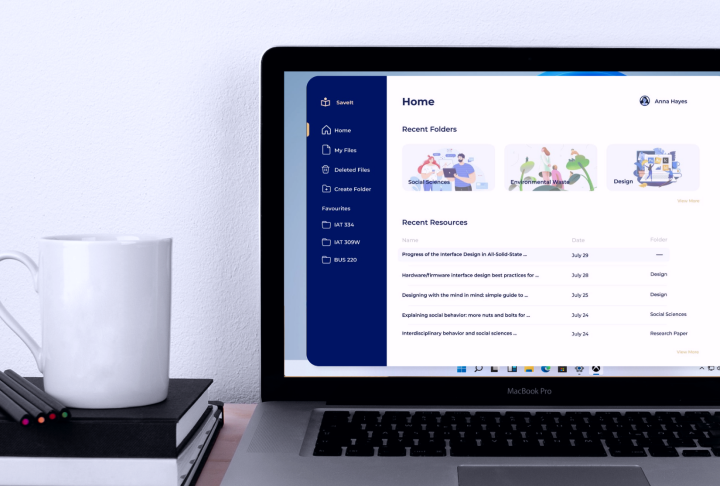
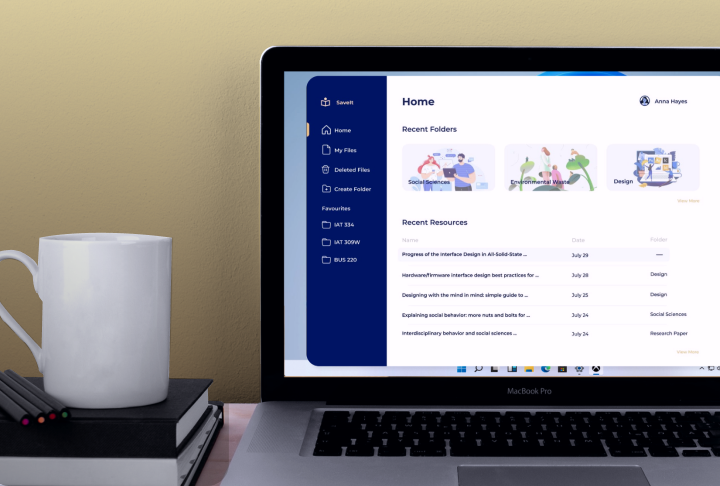
Updated thumbnails and added UX playground link

diff --git a/index.html b/index.html
@@ -62,7 +62,6 @@
                        <ul>
                             <li class="tag"><a href="#work-graphic">Visual Design</a></li>
                             <li class="tag"><a href="#work-UIUX">UI/UX Design</a></li>
-                            <!-- <li class="tag">Social Impact</li> -->
                         </ul>
                         <!-- <p>In my pursuit of joy and social good, I craft memorable experiences that support community growth.</p> -->
                         <p>As a designer, I love to upgrade experiences by integrating new perspectives and adding extra moments of joy.</p>
@@ -101,49 +100,42 @@
                             </a>
                         </div>
                     </div> -->
-
-                    <div class="proj-card" id="SaveIt">
-                        <ul>
-                            <li class="tag">User Research, Interaction Design</li>
-                        </ul>
-                        <h3 class="proj-ttl">SaveIt</h3>
-                        <!-- <p class="proj-dscrp">A desktop app that makes managing academic resources easier for post-secondary students.</p> -->
-                        <!-- <a class="proj-circle" id="c1" href="projects/project-SaveIt.html"> 
-                            <img src="image/project-SaveIt/icon-SaveIt.jpg" alt="logo of the project shows a man reading a book">
-                            <img class="text-circle" src="image/project-SaveIt/circle-SaveIt.png" alt="text circle around the logo of the project">
-                        </a> -->
-                        <div class="proj-display">
-                            <a href="projects/project-SaveIt.html"  >
-                                <div class="proj-preview">
-                                            <img class="lazy" data-src="image/project-SaveIt/SaveIt-proj-preview.png" width="1529" height="840" alt="go to SaveIt project, image shows a mockup of the SaveIt project displayed on a laptop">
-                                </div>
-                            </a>
+                    
+                    <div>
+                        <div class="proj-card" id="SaveIt">
+                            <ul>
+                                <li class="tag">User Research, Interaction Design</li>
+                            </ul>
+                            <h3 class="proj-ttl">SaveIt</h3>
+                            <!-- <p class="proj-dscrp">A desktop app that makes managing academic resources easier for post-secondary students.</p> -->
+                            <div class="proj-display">
+                                <a href="projects/project-SaveIt.html"  >
+                                    <div class="proj-preview">
+                                                <img class="lazy" data-src="image/project-SaveIt/SaveIt-proj-preview.png" width="1529" height="840" alt="go to SaveIt project, image shows a mockup of the SaveIt project displayed on a laptop">
+                                    </div>
+                                </a>
+                            </div>
+                        
+                            <!-- <a class="card-link" href="projects/project-SaveIt.html">View Project</a> -->
                         </div>
-                      
-                        <!-- <a class="card-link" href="projects/project-SaveIt.html">View Project</a> -->
+
+                        <div class="proj-card" id="MoreUX">
+                            <ul>
+                                <li class="tag">Practice + Experiment</li>
+                            </ul>
+                            <h3 class="proj-ttl">My UI/UX Sandbox</h3>
+                        <div class="proj-display">
+                                <a href="https://www.behance.net/sylviazhang1" target="_blank" >
+                                    <div class="proj-preview">
+                                                <img class="lazy" data-src="image/UXGallery-proj-preview.png" width="1529" height="840" alt="Go to my Behance">
+                                    </div>
+                                </a>
+                            </div>
+                        
+                            <!-- <a class="card-link" href="projects/project-SaveIt.html">View Project</a> -->
+                        </div>
                     </div>
 
-
-                    <!-- <div class="proj-card" id="Treep">
-                        <h3 class="proj-ttl">OnboardEase</h3>
-                        <p class="proj-dscrp">A web app that smooths training and learning process for organizations with dynamic workforce.</p>
-                        <a class="proj-circle" id="c1" href="projects/project-Treep.html"> 
-                            <img src="image/project-OnboardEase/icon-Treep.jpg" alt="logo of the project">
-                            <img class="text-circle" src="image/project-Treep/circle-Treep.png" alt="text circle around the logo of the project">
-                        </a>
-                        <div class="proj-display">
-                            <a href="projects/project-Treep.html"  >
-                                <div class="proj-preview">
-                                            <img  src="image/project-Treep/Treep-proj-preview.png" alt="go to OnboardEase project">
-                                </div>
-                            </a>
-                        </div>
-                        <ul>
-                            <li class="tag">Co-Designing</li>
-                            <li class="tag">Interaction Design</li>
-                        </ul>
-                        <a class="card-link" href="projects/project-Treep.html">View Project</a>
-                    </div> -->
                 </div>
 
                 <!-- <h2 class="dot-decor">Research + Innovation</h2>
@@ -218,12 +210,10 @@
                             <div class="proj-display">
                                 <a href="https://www.pinterest.ch/sylviazhangsiqi/sylvias-sketchbook/" target="_blank"  >
                                     <div class="proj-preview">
-                                                <img class="lazy" data-src="image/Gallery-proj-preview.png" width="1529" height="840" alt="go to Pintrest board">
+                                                <img class="lazy" data-src="image/Gallery-proj-preview.png" width="1529" height="840" alt="Go to my Pintrest">
                                     </div>
                                 </a>
                             </div>
-
-                            <!-- <a class="card-link" href="projects/project-DC.html">View Project</a> -->
                         </div>
                     </div>
                 </section>
